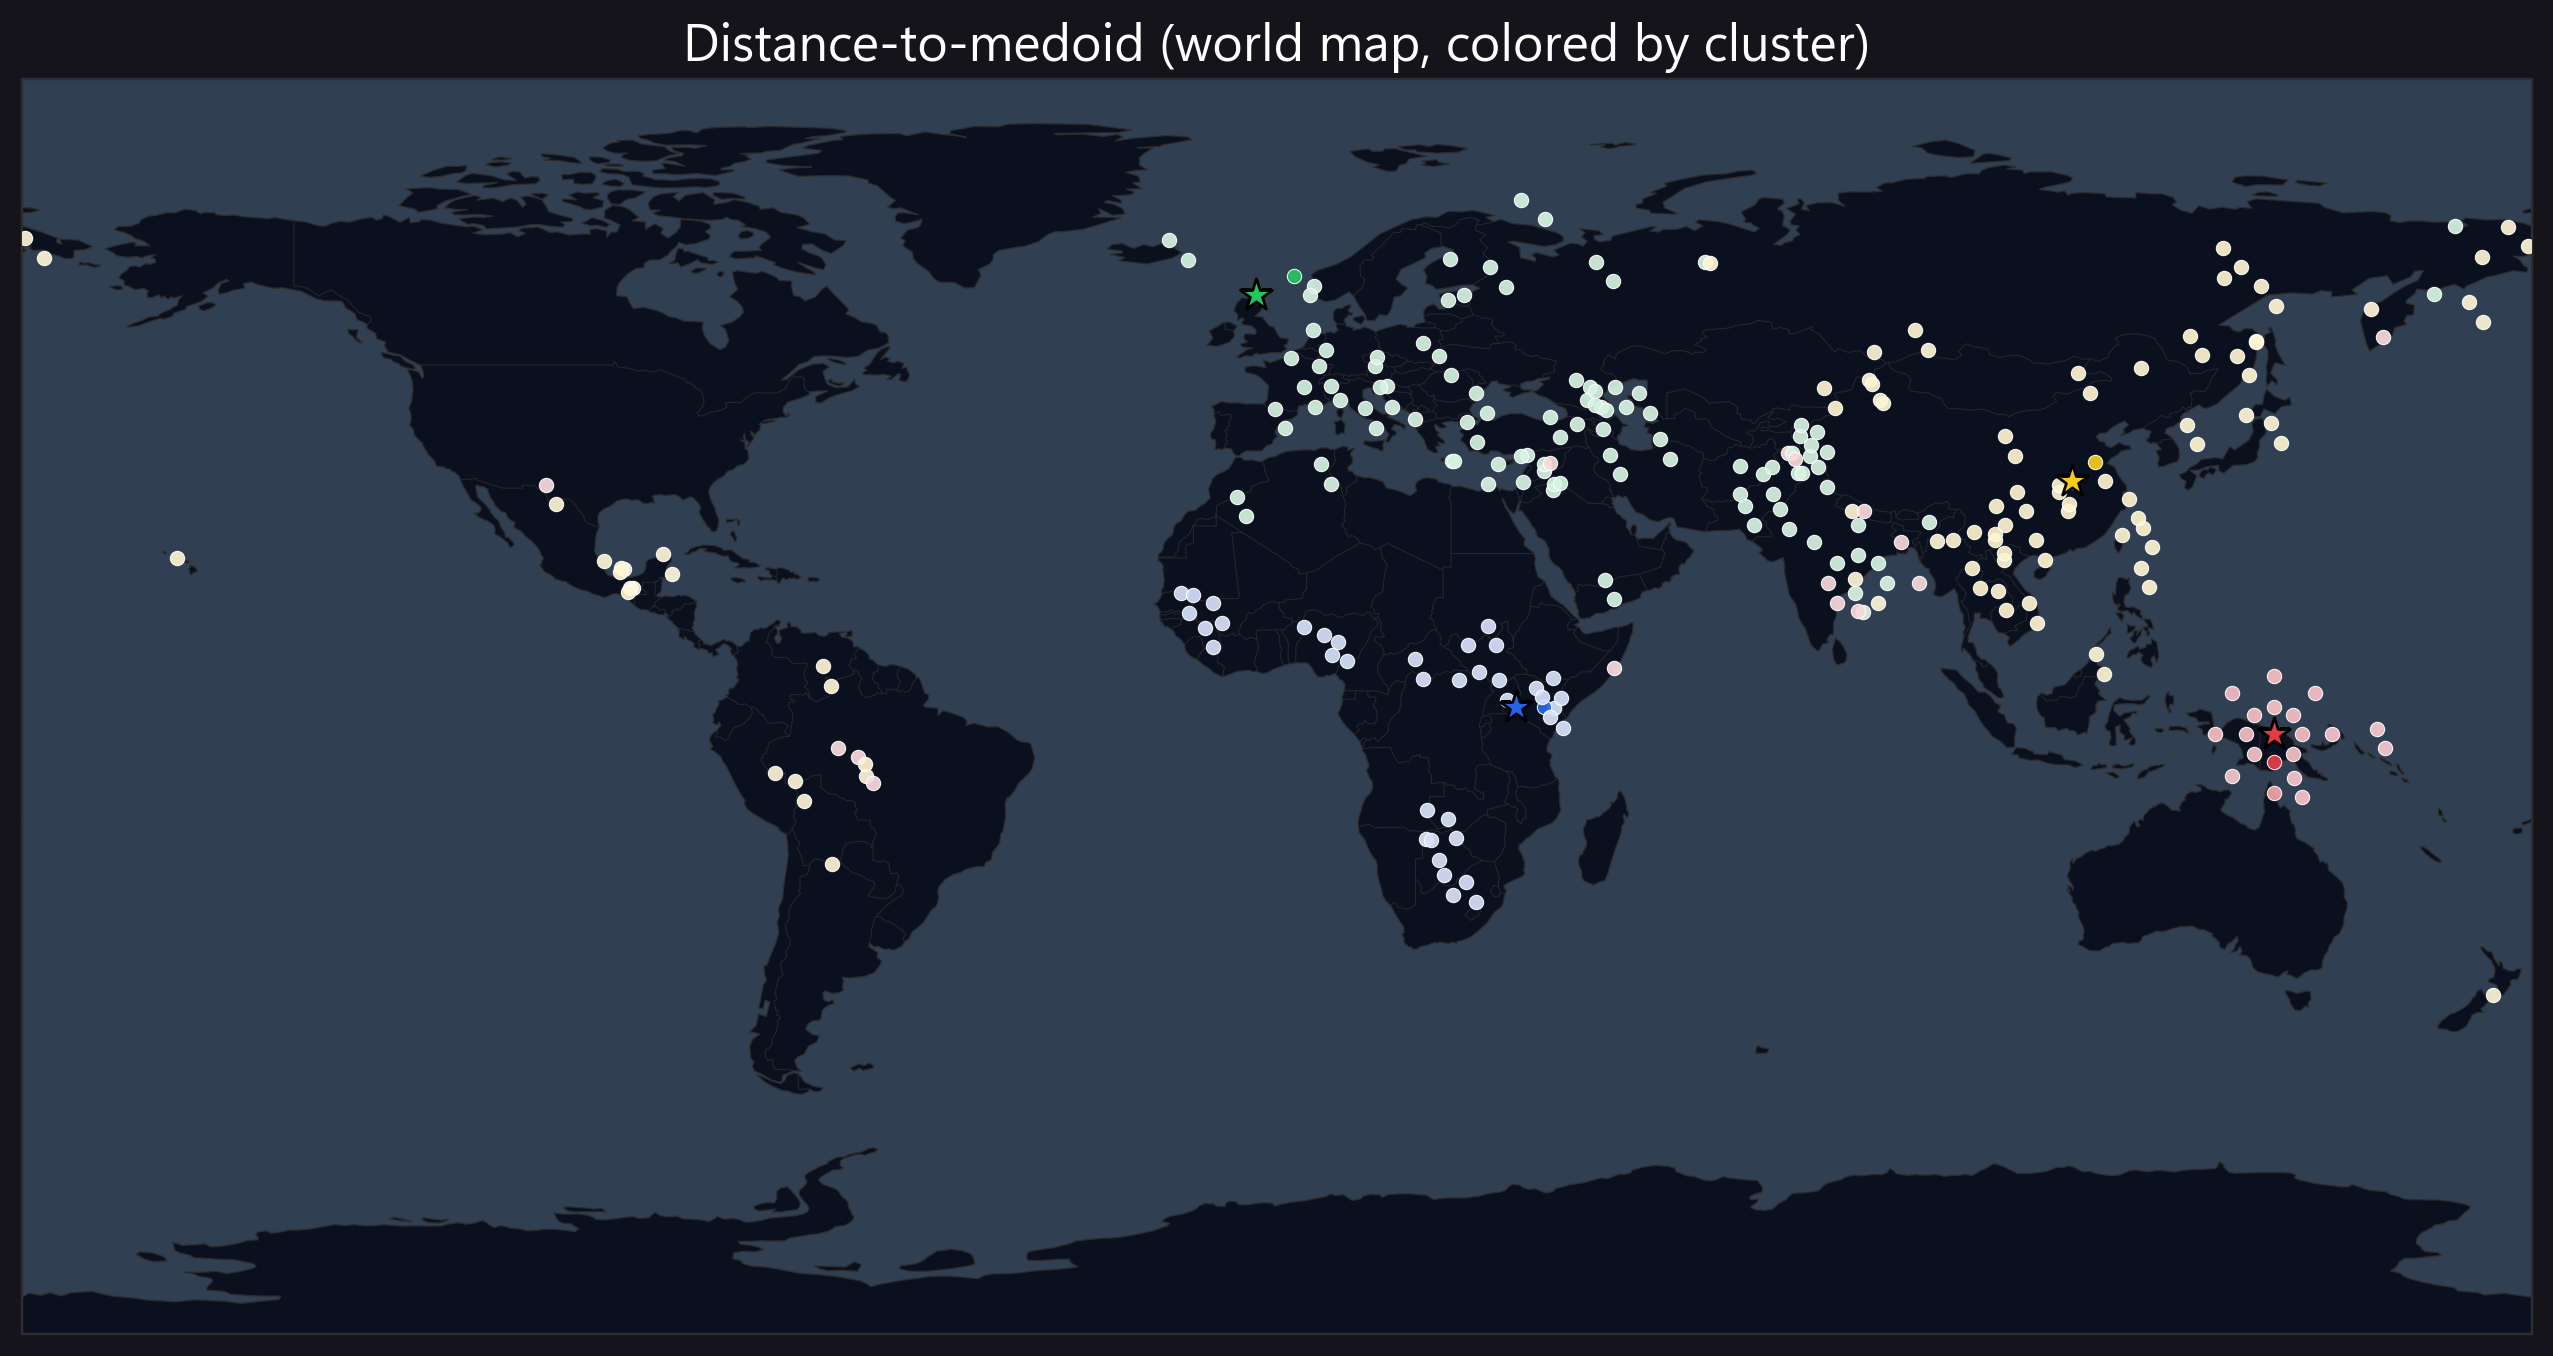
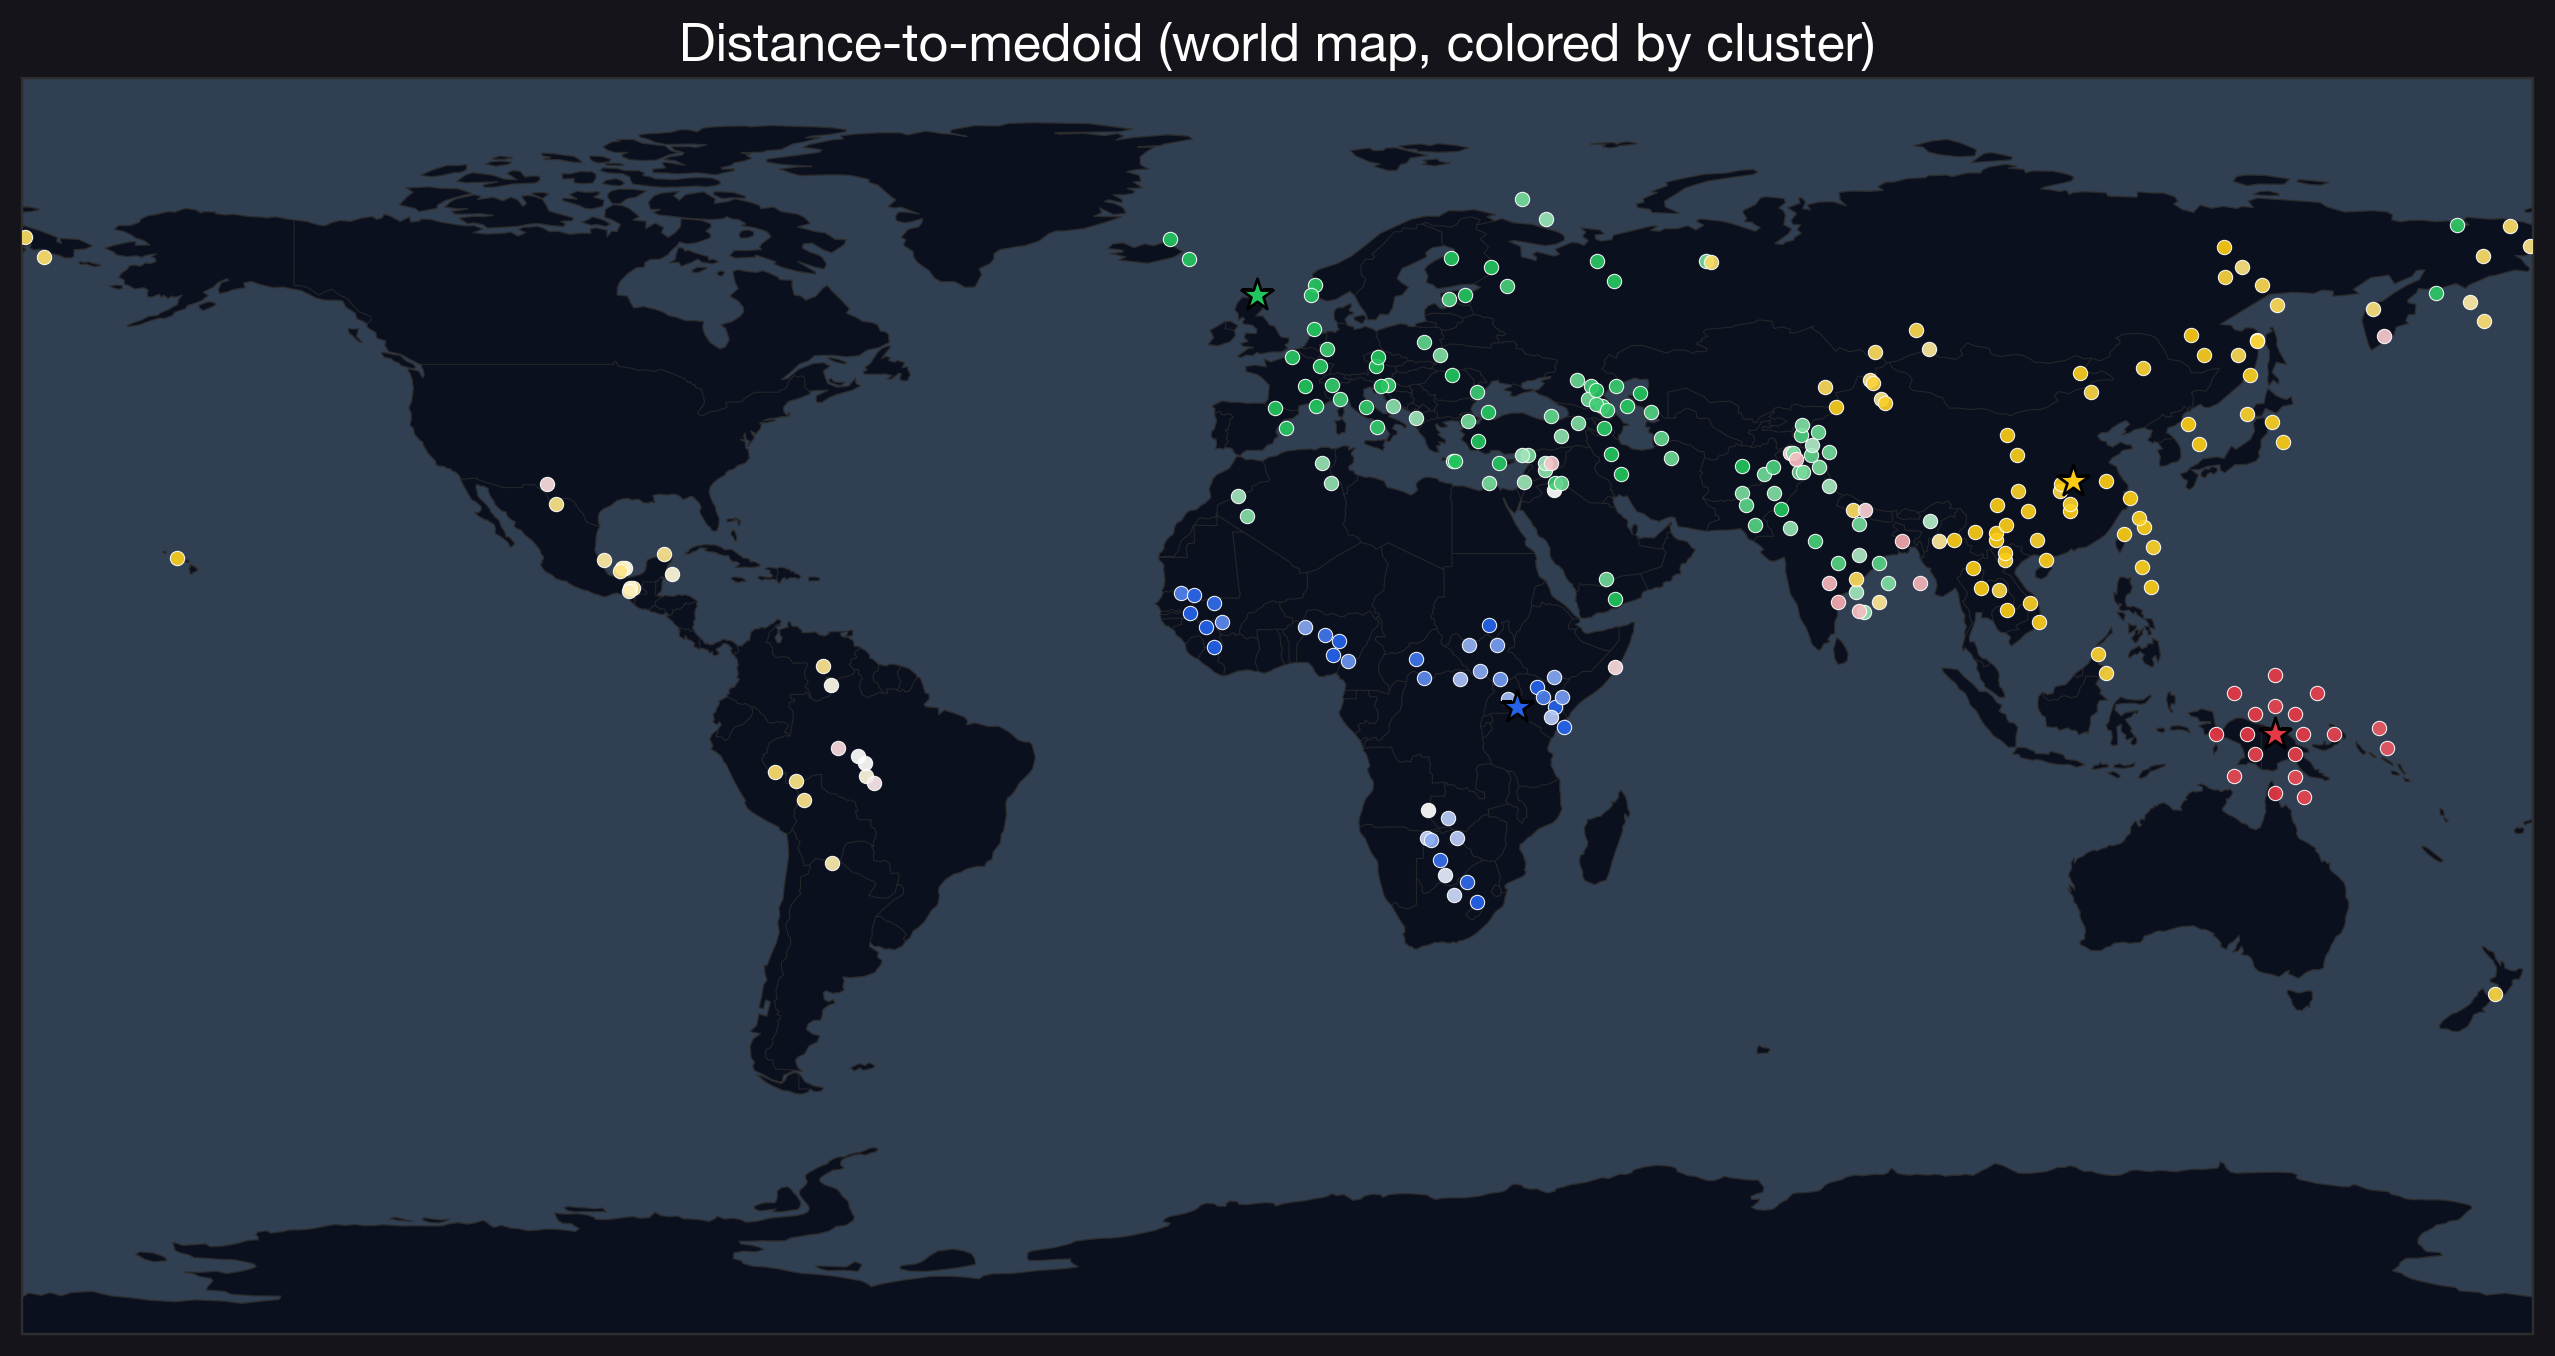
deployed to vercel and fixed color mapping of the bridge groups

diff --git a/dashboard_plot_maker/generate_dashboard_plots.py b/dashboard_plot_maker/generate_dashboard_plots.py
@@ -119,8 +119,9 @@ def _load_repo_metadata_latlon() -> List[Tuple[float, float]]:
 def make_medoid_distance_world_map(input_dir: Path, output_path: Path) -> None:
     """
     World map: each subject plotted at (lon,lat), colored by cluster.
-    Point opacity encodes distance-to-medoid (closer = more opaque).
-    Also marks each cluster's medoid as a star.
+    Medoid (cluster center) is marked with a star and has no point.
+    Color scheme: samples closer than cluster mean keep full cluster color.
+    Samples farther than mean fade to white (gradient based on percentile rank).
     """
 
     # Local inputs
@@ -205,32 +206,47 @@ def make_medoid_distance_world_map(input_dir: Path, output_path: Path) -> None:
     # Spread overlapping locations for visibility
     lats, lons = _spread_overlapping_locations(lats, lons, subj_ids)
 
-    d_arr = np.asarray(ds, dtype=float)
-    d_max = float(np.nanmax(d_arr))
-    if not np.isfinite(d_max):
-        raise ValueError("Invalid medoid distances (max is not finite).")
-
-    # Per-cluster scaling:
-    # Use hard percentile buckets (user requested) to make the trend clearly visible.
-    cluster_min: dict[int, float] = {}
-    cluster_vals: dict[int, List[float]] = {}
-    for cid, d in zip(cids, ds):
+    # Determine medoid per cluster: argmin distance within cluster
+    medoid_by_cluster: dict[int, int] = {}
+    for i in range(n):
+        if i not in distances:
+            continue
+        cid = int(chromo[i])
+        d = float(distances[i])
         if not np.isfinite(d):
             continue
-        c = int(cid)
-        cluster_vals.setdefault(c, []).append(float(d))
-        prev = cluster_min.get(c)
-        if prev is None or d < prev:
-            cluster_min[c] = float(d)
+        prev = medoid_by_cluster.get(cid)
+        if prev is None or d < float(distances.get(prev, float("inf"))):
+            medoid_by_cluster[cid] = i
 
-    # Pre-sort per cluster for rank lookup
-    cluster_sorted: dict[int, np.ndarray] = {}
-    for c, vals in cluster_vals.items():
-        arr = np.asarray(vals, dtype=float)
-        arr = arr[np.isfinite(arr)]
-        if arr.size == 0:
+    # Calculate per-cluster statistics (EXCLUDING medoid)
+    # This is used to split samples into "core" (top 20%) and "outliers" (80% with gradient)
+    cluster_p20_distance: dict[int, float] = {}
+    cluster_max_distance: dict[int, float] = {}
+    cluster_distances_excluding_medoid: dict[int, List[float]] = {}
+
+    for i in range(n):
+        if i not in distances:
             continue
-        cluster_sorted[c] = np.sort(arr)
+        cid = int(chromo[i])
+        medoid_idx = medoid_by_cluster.get(cid)
+
+        # Skip the medoid itself
+        if i == medoid_idx:
+            continue
+
+        d = float(distances[i])
+        if not np.isfinite(d):
+            continue
+
+        cluster_distances_excluding_medoid.setdefault(cid, []).append(d)
+
+    # Compute 20th percentile and max for each cluster (excluding medoid)
+    for cid, dists in cluster_distances_excluding_medoid.items():
+        if dists:
+            dists_arr = np.asarray(dists, dtype=float)
+            cluster_p20_distance[cid] = float(np.percentile(dists_arr, 20))
+            cluster_max_distance[cid] = float(np.max(dists_arr))
 
     def _blend(hex_color: str, t: float, target_hex: str = "#f2f2f2") -> str:
         """
@@ -253,19 +269,6 @@ def make_medoid_distance_world_map(input_dir: Path, output_path: Path) -> None:
         gg = int(round(g + (tg - g) * t))
         bb = int(round(b + (tb - b) * t))
         return f"#{rr:02x}{gg:02x}{bb:02x}"
-
-    # Determine medoid per cluster: argmin distance within cluster
-    medoid_by_cluster: dict[int, int] = {}
-    for i in range(n):
-        if i not in distances:
-            continue
-        cid = int(chromo[i])
-        d = float(distances[i])
-        if not np.isfinite(d):
-            continue
-        prev = medoid_by_cluster.get(cid)
-        if prev is None or d < float(distances.get(prev, float("inf"))):
-            medoid_by_cluster[cid] = i
 
     apply_dashboard_style()
     # Override some rcParams to keep map-looking axes clean.
@@ -292,34 +295,34 @@ def make_medoid_distance_world_map(input_dir: Path, output_path: Path) -> None:
     base_alpha = 0.92
     for i in range(len(lons)):
         cid = int(cids[i])
+        subj_idx = int(subj_ids[i])
         base = cluster_color(cid)
         d = float(ds[i])
-        sorted_ds = cluster_sorted.get(cid)
-        if sorted_ds is None or sorted_ds.size <= 1 or not np.isfinite(d):
-            t = 0.0
+
+        # Skip the medoid itself (it gets marked with a star instead)
+        if subj_idx == medoid_by_cluster.get(cid):
+            continue
+
+        p20_d = cluster_p20_distance.get(cid, float("inf"))
+        max_d = cluster_max_distance.get(cid, float("inf"))
+
+        if not np.isfinite(d):
+            col = base
+        elif d <= p20_d:
+            # Top 20% (closest): keep full cluster color
+            col = base
         else:
-            # Percentile rank within cluster using right-side insertion (stable for ties)
-            pos = int(np.searchsorted(sorted_ds, d, side="right"))
-            p = pos / float(sorted_ds.size)  # in (0,1]
-
-            # Hard buckets (closest -> farthest):
-            # - 30% closest: 0% whitened
-            # - next 20%: 10% whitened
-            # - next 20%: 30% whitened
-            # - next 20%: 50% whitened
-            # - 10% farthest: 80% whitened
-            if p <= 0.30:
-                t = 0.0
-            elif p <= 0.50:
-                t = 0.10
-            elif p <= 0.70:
-                t = 0.30
-            elif p <= 0.90:
-                t = 0.50
+            # Bottom 80% (farther): linear gradient to white
+            # p20_d = 0% white, max_d = 100% white
+            if max_d > p20_d:
+                whitening = (d - p20_d) / (max_d - p20_d)
+                whitening = float(np.clip(whitening, 0.0, 1.0))
             else:
-                t = 0.80
+                whitening = 0.0
 
-        col = _blend(base, float(t), target_hex="#ffffff")
+            # Blend from cluster color towards white
+            col = _blend(base, whitening, target_hex="#ffffff")
+
         ax.scatter(
             [lons[i]],
             [lats[i]],
